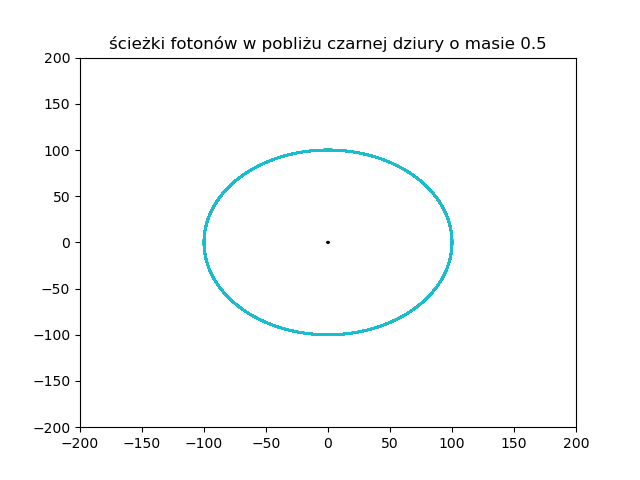
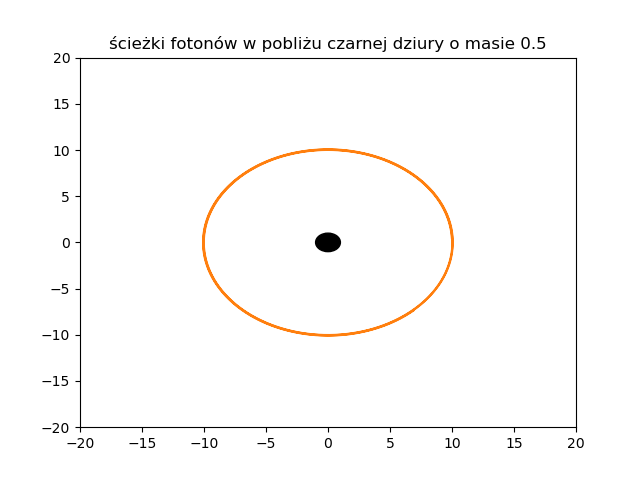
mam_bardzo_dosc

diff --git a/src/draw_photon.py b/src/draw_photon.py
@@ -28,7 +28,7 @@ def animation(j):
 r_schwarz = (2 * G * M) / c**2
 
 
-PHOTON_NR = 20
+PHOTON_NR = 1
 PHOTON_SEP = 5
 PHOTON_X = 1
 offset = 1
@@ -44,7 +44,7 @@ ll = []
 for i in range(0, PHOTON_NR):
     #photons.append(photon(PHOTON_X, offset + PHOTON_SEP * i, 0.1 + 0.2 * i))
     
-    r_0 = 100
+    r_0 = 10
     b = 0.5 + 0.1 * i 
     phi = np.arcsin(b / r_0)
     
@@ -56,7 +56,7 @@ for i in range(0, PHOTON_NR):
     ln, = plt.plot([], [])
     ll.append(ln)
 
-Time = 200
+Time = 20
 dt   = 0.01
 for p in photons: 
     p.move(Time, dt)
@@ -67,8 +67,8 @@ print(photons[0].pathy)
 def init():
     upper_lim = (1.5 * offset) + PHOTON_SEP * PHOTON_NR
     
-    ax.set_xlim(-200, 200)
-    ax.set_ylim(-200, 200)
+    ax.set_xlim(-20, 20)
+    ax.set_ylim(-20, 20)
 
     #ax.set_xlim(-0.5*upper_lim, offset + PHOTON_X)
     #ax.set_ylim(-offset, upper_lim)
